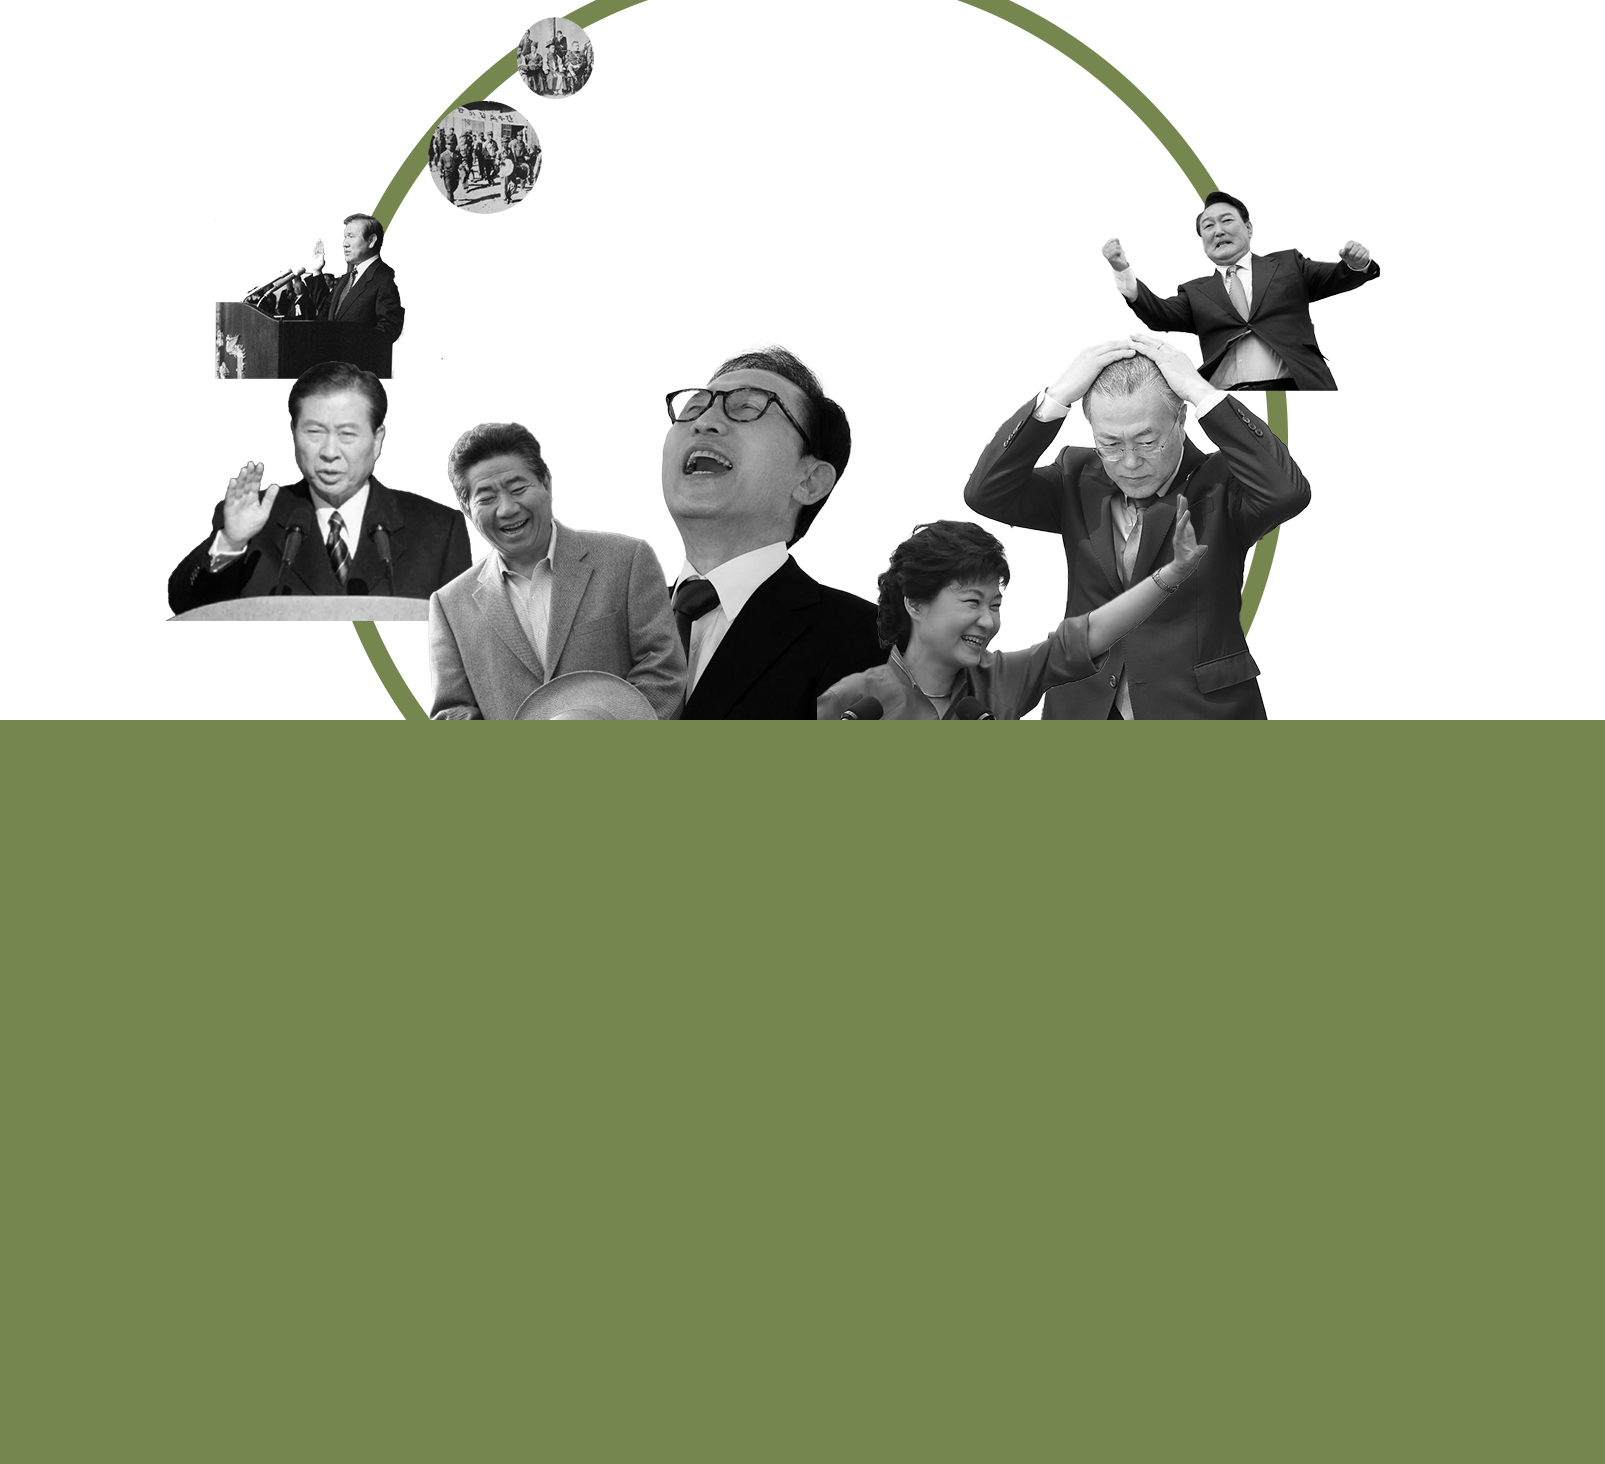
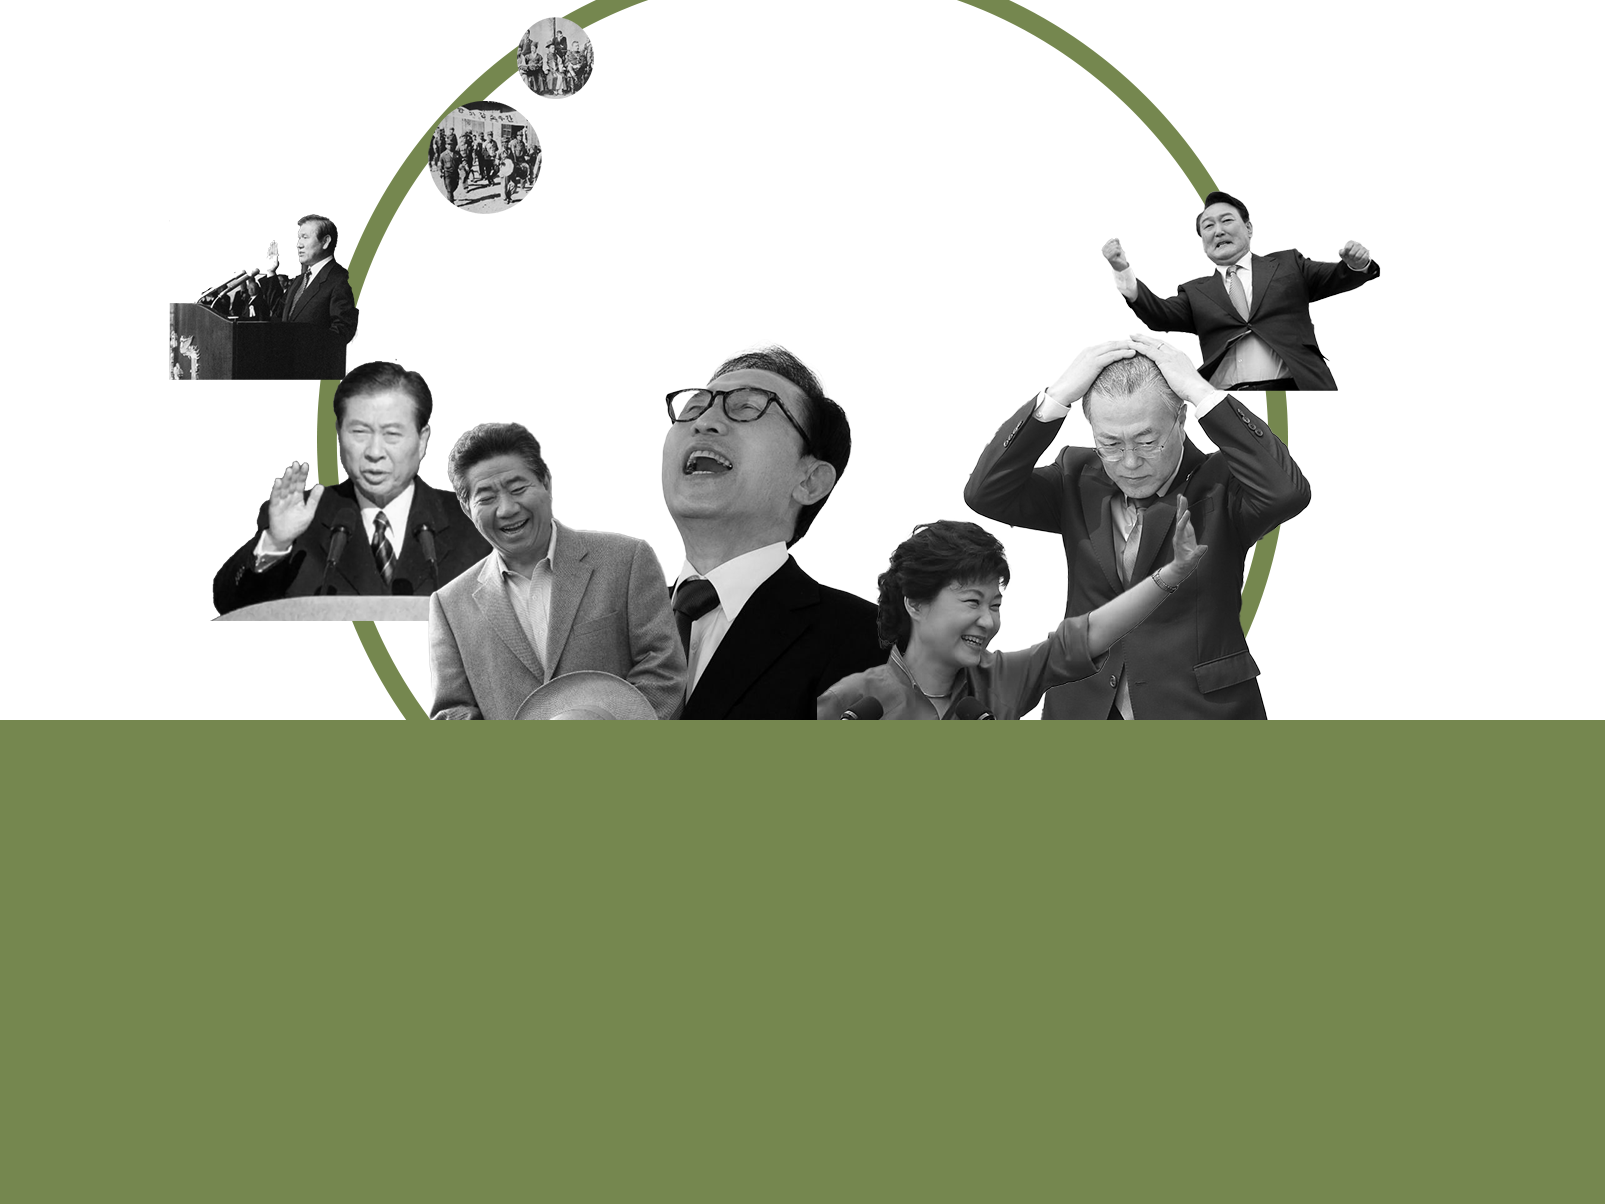
j

Changed region(s): [[0.0, 0.0, 1.0, 0.6146]]

diff --git a/project-22/assets/style.css b/project-22/assets/style.css
@@ -333,8 +333,11 @@ navi li:hover ul{
 
 #myDiv{
 	position: absolute;
-	LEFT: -10px;
-    top: -179px;
+    LEFT: -50px;
+    top: -176px;
+
+
+
 }
 
 .sample1:nth-child(1){
@@ -344,6 +347,7 @@ navi li:hover ul{
     left: 1173px;
     top: 88px;
     background: #75874F;
+
 }
 .sample1:nth-child(2){
     position: absolute;
@@ -352,11 +356,12 @@ navi li:hover ul{
     left: 1173px;
     top: 68px;
     background: #75874F;
+
 }
 #myDiv2{
     position: absolute;
-	LEFT: -53px;
-    top: -187px;
+	left: -80px;
+    top: -161px;
 }
 .sample2:nth-child(1){
     position: absolute;
@@ -385,8 +390,8 @@ navi li:hover ul{
 
 #myDiv3{
     position: absolute;
-    LEFT: -251px;
-    top: -11px;
+	LEFT: -251px;
+    top: 17px;
 }
 
 .sample3:nth-child(1){
@@ -416,7 +421,7 @@ navi li:hover ul{
 
 #myDiv4{
     position: absolute;
-	LEFT: -537px;
+    LEFT: -495px;
     top: -21px;
 }
 
@@ -444,7 +449,7 @@ navi li:hover ul{
 
 #myDiv5{
     position: absolute;
-    LEFT: -768px;
+	LEFT: -687px;
     top: -70px;
 }
 
@@ -502,8 +507,8 @@ top: 154px;
 
 #myDiv6{
     position: absolute;
-    LEFT: -875px;
-    top: -105px;
+	LEFT: -798px;
+    top: -127px;
 }
 
 .sample6:nth-child(1){
@@ -560,8 +565,8 @@ top: 154px;
 
 #myDiv7{
     position: absolute;
-	LEFT: -1000px;
-    top: -202px;
+    LEFT: -881px;
+    top: -278px;
 }
 
 .sample7:nth-child(1){
@@ -774,7 +779,7 @@ ul {
 	
 	gap: calc(3 * var(--spacing));
 	margin-top: calc(4 * var(--spacing));
-	padding-top : 600px;
+
 	margin-right: 30px;
 	
 }
@@ -829,4 +834,11 @@ display: none;
 		
 			max-width: 200px;
 		}
+	}
+
+	@media (max-width: 1150px) {
+
+		.samplebook {
+			display: none;
+			}
 	}

diff --git a/project-22/assets/collection.js b/project-22/assets/collection.js
@@ -32,7 +32,10 @@ listItem.appendChild(itemImg) // And add that too
 		itemPublishedYear.innerHTML = item.publishedYear // Put the JSON title inside
 		listItem.appendChild(itemPublishedYear) // And add it to the `li`!
 
-
+		// You can make each element inside of that…
+		const itemPeriod = document.createElement('period') // Make an `h2`
+		itemPeriod.innerHTML = item.period // Put the JSON title inside
+		listItem.appendChild(itemPeriod) // And add it to the `li`!
 
 	// Add a description under the list item
 	const itemDiscription = document.createElement('discription');
@@ -125,10 +128,35 @@ myDiv.addEventListener('click', () => {
   });
 });
 
-const createLightboxes = listItems => {
-	listItems.forEach(item => {
-		item.addEventListener('click', () => {
-			item.classList.toggle('lightbox-enabled')
-		})
-	})
-}
+myDiv4.addEventListener('click', () => {
+	window.scrollBy({
+	  top: 3300, // 30px 스크롤 다운할 거리
+	  behavior: 'smooth' // 부드러운 스크롤 효과 적용
+	});
+  });
+
+
+myDiv3.addEventListener('click', () => {
+	window.scrollBy({
+	  top: 2300, // 30px 스크롤 다운할 거리
+	  behavior: 'smooth' // 부드러운 스크롤 효과 적용
+	});
+  });
+
+
+
+myDiv2.addEventListener('click', () => {
+	window.scrollBy({
+	  top: 1400, // 30px 스크롤 다운할 거리
+	  behavior: 'smooth' // 부드러운 스크롤 효과 적용
+	});
+  });
+
+
+  myDiv.addEventListener('click', () => {
+	window.scrollBy({
+	  top: 1000, // 30px 스크롤 다운할 거리
+	  behavior: 'smooth' // 부드러운 스크롤 효과 적용
+	});
+  });
+

diff --git a/project-22/index.html b/project-22/index.html
@@ -89,7 +89,7 @@
 			</div>
 		</div>
 	
-		<div style="text-align : center; margin-top : -20px; margin-left:-16px; margin-right:-16px;" >
+		<div style="text-align : center; margin-top : -20px; margin-left:-16px; margin-right:-16px; " >
 
 			<img src="assets/p/whole.png" class="whole">
 		 
